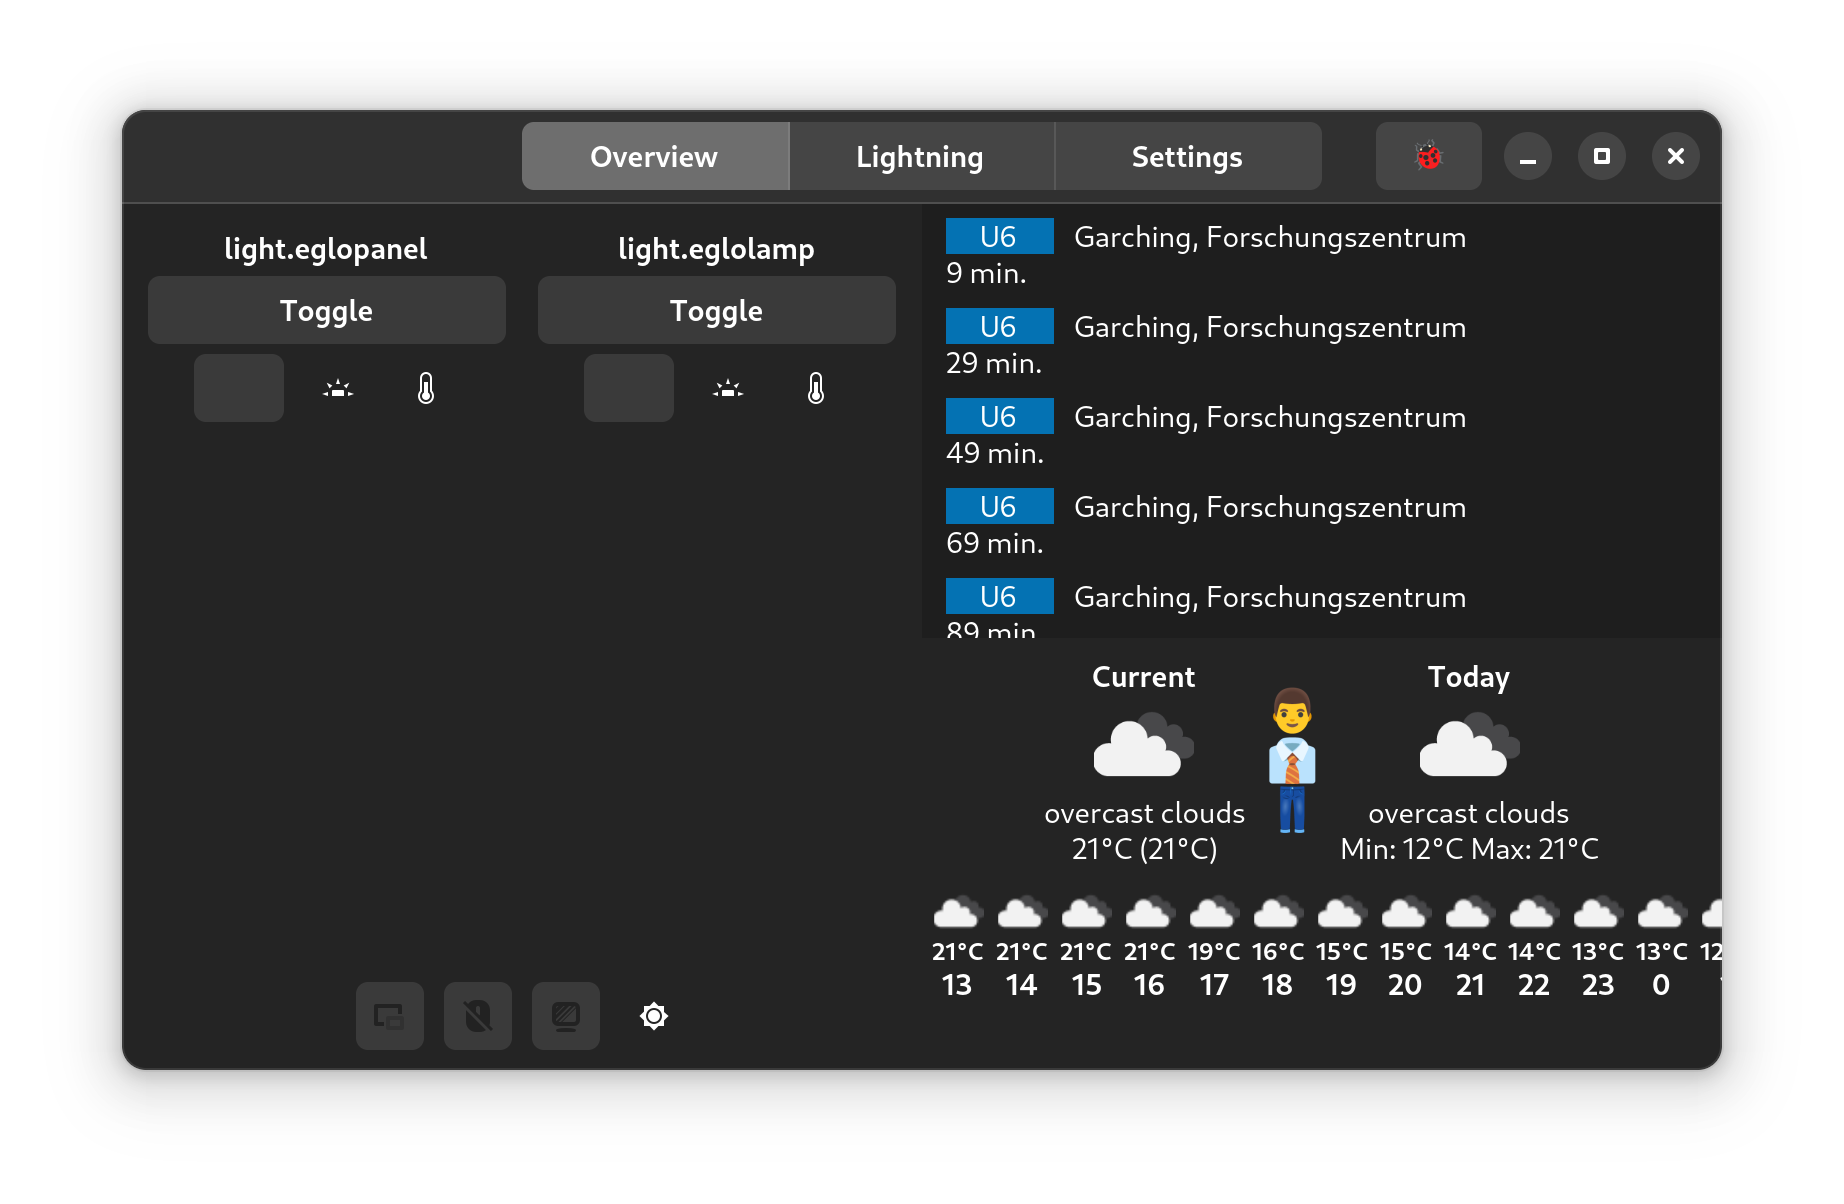
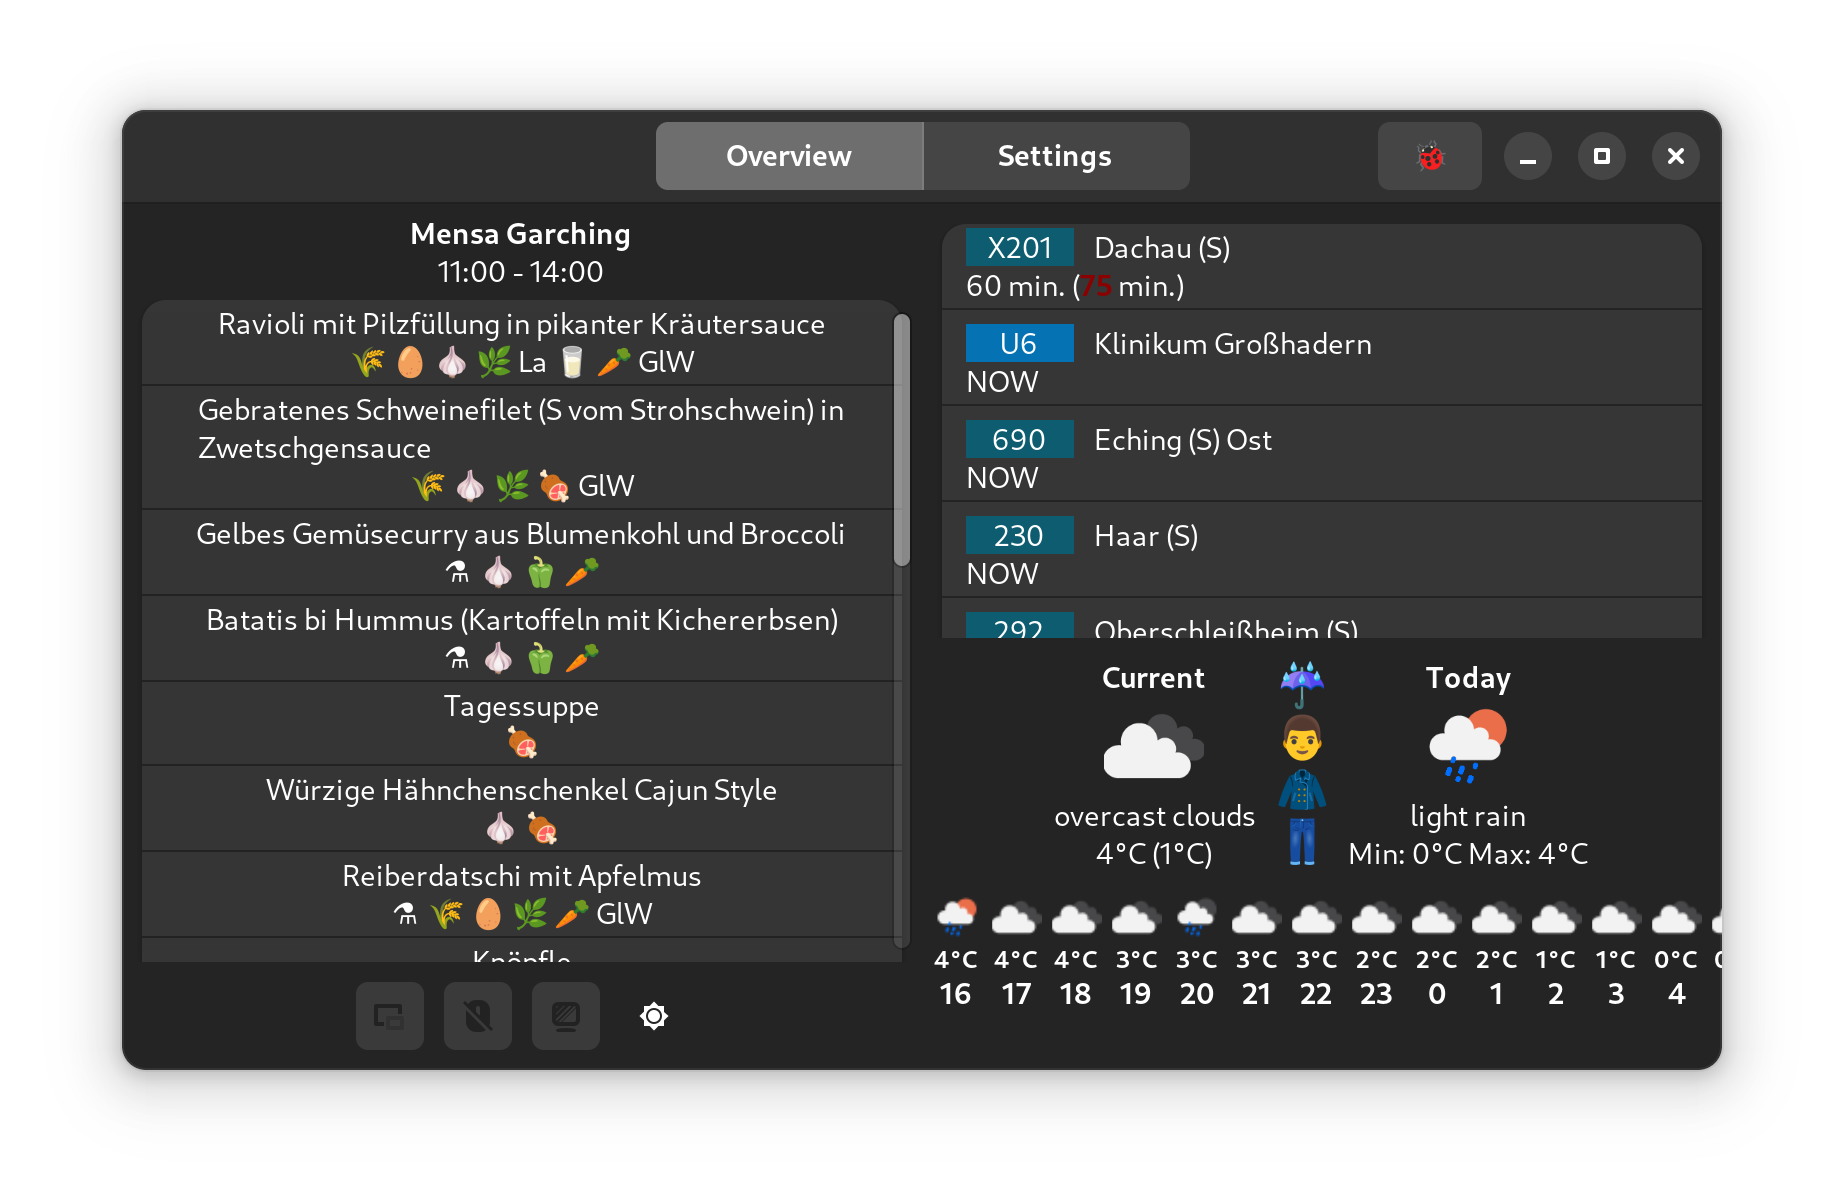
Updated the readme

Changed region(s): [[0.0927, 0.0922, 0.9582, 0.8297], [0.1546, 0.5839, 0.4328, 0.799], [0.7728, 0.1229, 0.8037, 0.1537]]

diff --git a/README.md b/README.md
@@ -1,5 +1,5 @@
 # Tum-UI
-GTK4 Based UI for home automation using a Raspberry Pi.
+GTK4 Based UI for TUM related canteen and MVG information. Intended to be run on a Raspberry PI as an office status display.
 
 ## Examples
 ![Overview in dark mode](images/overview_dark.png)
